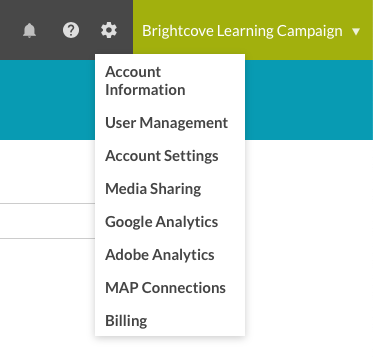
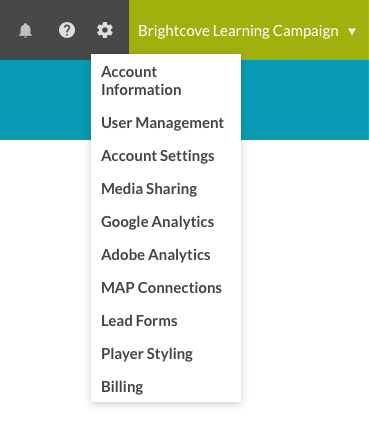
add lead forms and player styling to admin menu list

Changed region(s): [[0.0, 0.0, 1.0, 0.5515], [0.2683, 0.5822, 0.6558, 0.9499], [0.6558, 0.3064, 1.0, 0.3983]]

diff --git a/_site/admin/managing-account-settings.html b/_site/admin/managing-account-settings.html
@@ -398,6 +398,8 @@ function doGTranslate(lang_pair) {if(lang_pair.value)lang_pair=lang_pair.value;i
       <li><a href="#google">Google Analytics</a></li>
       <li><a href="#adobe">Adobe Analytics</a></li>
       <li><a href="#map">MAP Connections</a></li>
+      <li><a href="#lead-forms">Lead Forms</a></li>
+      <li><a href="#styling">Player Styling</a></li>
       <li><a href="#billing">Billing</a></li>
     </ul>
   </section>
@@ -407,7 +409,7 @@ function doGTranslate(lang_pair) {if(lang_pair.value)lang_pair=lang_pair.value;i
   </section>
   <section class="bcls-section">
     <h2 id="users">User Management</h2>
-    <p>The User Management option allows you to manage the users who are authorized to use the Brightcove Campaign application. For  information on managing users, see <a href="/admin/managing-users.html">Managing Users</a>.</p>
+    <p>The User Management option allows you to manage the users who are authorized to use the Brightcove Campaign application. For  information, see <a href="/admin/managing-users.html">Managing Users</a>.</p>
   </section>
   <section class="bcls-section">
     <h2 id="account_settings">Account Settings</h2>
@@ -417,7 +419,7 @@ function doGTranslate(lang_pair) {if(lang_pair.value)lang_pair=lang_pair.value;i
   </section>
   <section class="bcls-section">
     <h2 id="sharing">Media Sharing</h2>
-    <p>The Media Sharing option allows you to upload videos once and then share the videos to other Brightcove accounts. For  information on media sharing, see <a href="/admin/managing-media-sharing-settings.html">Managing Media Sharing Settings</a>.</p>
+    <p>The Media Sharing option allows you to upload videos once and then share the videos to other Brightcove accounts. For  information, see <a href="/admin/managing-media-sharing-settings.html">Managing Media Sharing Settings</a>.</p>
   </section>
   <section class="bcls-section">
     <h2 id="google">Google Analytics</h2>
@@ -425,15 +427,23 @@ function doGTranslate(lang_pair) {if(lang_pair.value)lang_pair=lang_pair.value;i
   </section>
   <section class="bcls-section">
     <h2 id="adobe">Adobe Analytics</h2>
-    <p>The Adobe Analytics option allows event tracking data to be sent to an Adobe Analytics account for reporting purposes. For  information on managing users, see <a href="/admin/configuring-google-analytics-event-tracking.html">Configuring Adobe Analytics Event Tracking</a>.</p>
+    <p>The Adobe Analytics option allows event tracking data to be sent to an Adobe Analytics account for reporting purposes. For  information, see <a href="/admin/configuring-google-analytics-event-tracking.html">Configuring Adobe Analytics Event Tracking</a>.</p>
   </section>
   <section class="bcls-section">
     <h2 id="map">MAP Connections</h2>
-    <p>The MAP Connections option allows you to configure integrations with marketing automation platforms such as HubSpot, Eloqua and Marketo. For  information on billing, see <a href="/admin/configuring-map-connections.html">Configuring Marketing Automation Platform Connections</a>.</p>
+    <p>The MAP Connections option allows you to configure integrations with marketing automation platforms such as HubSpot, Eloqua and Marketo. For  information, see <a href="/admin/configuring-map-connections.html">Configuring Marketing Automation Platform Connections</a>.</p>
+  </section>
+  <section class="bcls-section">
+    <h2 id="lead-forms">Lead Forms</h2>
+    <p>The Lead Forms  option allows you to create lead forms that can be displayed during video playback. For  information, see <a href="/admin/creating-lead-forms.html">Creating Lead Forms</a>.</p>
+  </section>
+  <section class="bcls-section">
+    <h2 id="styling">Player Styling</h2>
+    <p>The Player Styling option allows you to customize the player appearance, colors and a player overlay. For  information, see <a href="/admin/styling-players.html">Styling Players</a>.</p>
   </section>
   <section class="bcls-section">
     <h2 id="billing">Billing</h2>
-    <p>The Billing option allows you to view billing information for the account. For  information on billing, see <a href="/admin/viewing-billing-information.html">Viewing Billing Information</a>.</p>
+    <p>The Billing option allows you to view billing information for the account. For  information, see <a href="/admin/viewing-billing-information.html">Viewing Billing Information</a>.</p>
   </section>
 </article>
 

diff --git a/admin/managing-account-settings.html b/admin/managing-account-settings.html
@@ -18,6 +18,8 @@ parent: Administering Accounts
       <li><a href="#google">Google Analytics</a></li>
       <li><a href="#adobe">Adobe Analytics</a></li>
       <li><a href="#map">MAP Connections</a></li>
+      <li><a href="#lead-forms">Lead Forms</a></li>
+      <li><a href="#styling">Player Styling</a></li>
       <li><a href="#billing">Billing</a></li>
     </ul>
   </section>
@@ -27,7 +29,7 @@ parent: Administering Accounts
   </section>
   <section class="bcls-section">
     <h2 id="users">User Management</h2>
-    <p>The User Management option allows you to manage the users who are authorized to use the Brightcove Campaign application. For  information on managing users, see <a href="/admin/managing-users.html">Managing Users</a>.</p>
+    <p>The User Management option allows you to manage the users who are authorized to use the Brightcove Campaign application. For  information, see <a href="/admin/managing-users.html">Managing Users</a>.</p>
   </section>
   <section class="bcls-section">
     <h2 id="account_settings">Account Settings</h2>
@@ -37,7 +39,7 @@ parent: Administering Accounts
   </section>
   <section class="bcls-section">
     <h2 id="sharing">Media Sharing</h2>
-    <p>The Media Sharing option allows you to upload videos once and then share the videos to other Brightcove accounts. For  information on media sharing, see <a href="/admin/managing-media-sharing-settings.html">Managing Media Sharing Settings</a>.</p>
+    <p>The Media Sharing option allows you to upload videos once and then share the videos to other Brightcove accounts. For  information, see <a href="/admin/managing-media-sharing-settings.html">Managing Media Sharing Settings</a>.</p>
   </section>
   <section class="bcls-section">
     <h2 id="google">Google Analytics</h2>
@@ -45,14 +47,22 @@ parent: Administering Accounts
   </section>
   <section class="bcls-section">
     <h2 id="adobe">Adobe Analytics</h2>
-    <p>The Adobe Analytics option allows event tracking data to be sent to an Adobe Analytics account for reporting purposes. For  information on managing users, see <a href="/admin/configuring-google-analytics-event-tracking.html">Configuring Adobe Analytics Event Tracking</a>.</p>
+    <p>The Adobe Analytics option allows event tracking data to be sent to an Adobe Analytics account for reporting purposes. For  information, see <a href="/admin/configuring-google-analytics-event-tracking.html">Configuring Adobe Analytics Event Tracking</a>.</p>
   </section>
   <section class="bcls-section">
     <h2 id="map">MAP Connections</h2>
-    <p>The MAP Connections option allows you to configure integrations with marketing automation platforms such as HubSpot, Eloqua and Marketo. For  information on billing, see <a href="/admin/configuring-map-connections.html">Configuring Marketing Automation Platform Connections</a>.</p>
+    <p>The MAP Connections option allows you to configure integrations with marketing automation platforms such as HubSpot, Eloqua and Marketo. For  information, see <a href="/admin/configuring-map-connections.html">Configuring Marketing Automation Platform Connections</a>.</p>
+  </section>
+  <section class="bcls-section">
+    <h2 id="lead-forms">Lead Forms</h2>
+    <p>The Lead Forms  option allows you to create lead forms that can be displayed during video playback. For  information, see <a href="/admin/creating-lead-forms.html">Creating Lead Forms</a>.</p>
+  </section>
+  <section class="bcls-section">
+    <h2 id="styling">Player Styling</h2>
+    <p>The Player Styling option allows you to customize the player appearance, colors and a player overlay. For  information, see <a href="/admin/styling-players.html">Styling Players</a>.</p>
   </section>
   <section class="bcls-section">
     <h2 id="billing">Billing</h2>
-    <p>The Billing option allows you to view billing information for the account. For  information on billing, see <a href="/admin/viewing-billing-information.html">Viewing Billing Information</a>.</p>
+    <p>The Billing option allows you to view billing information for the account. For  information, see <a href="/admin/viewing-billing-information.html">Viewing Billing Information</a>.</p>
   </section>
 </article>

diff --git a/_site/release-notes/2020.html b/_site/release-notes/2020.html
@@ -530,7 +530,7 @@ function doGTranslate(lang_pair) {if(lang_pair.value)lang_pair=lang_pair.value;i
 
 <hr>
 <div class="last-updated">
-  Page last updated on 13 May 2020
+  Page last updated on 28 May 2020
 </div>
 
 
